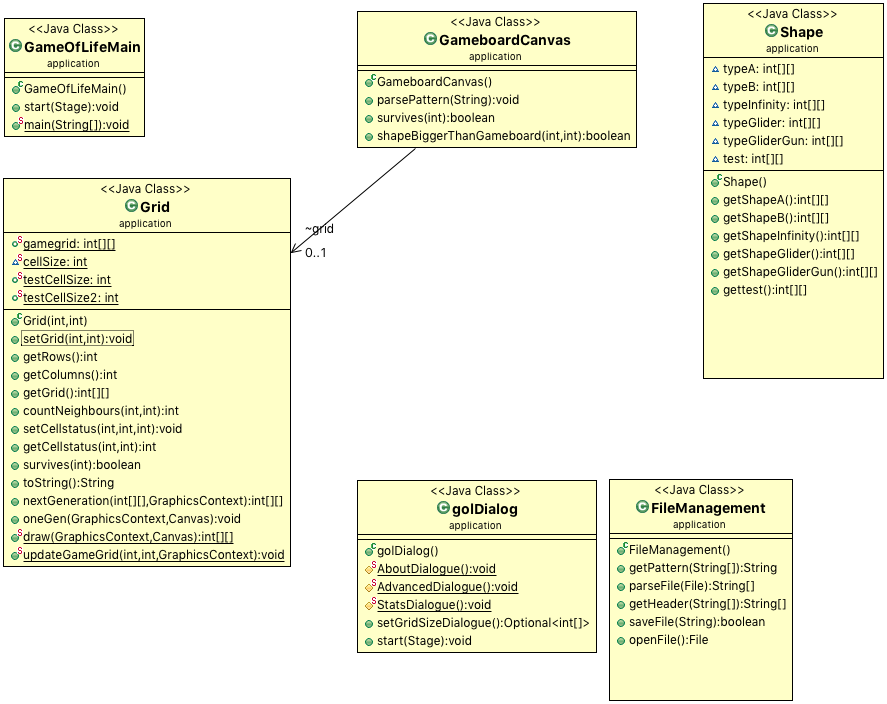
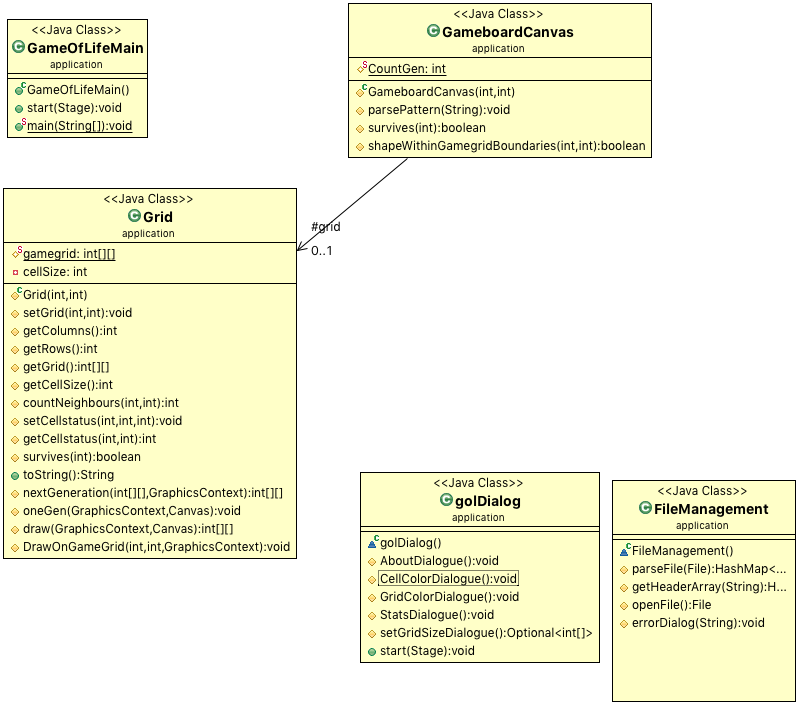
Refactor: countgen moved to Grid, created getters/ setters, updated statsdialog

diff --git a/src/application/golDialog.java b/src/application/golDialog.java
@@ -71,19 +71,19 @@ class golDialog extends Application	{
 		 * 
 		 * @author Lars 
 		 */
-		protected void StatsDialogue()	{
+		protected void StatsDialogue(Grid grid)	{
 			Alert stats = new Alert(AlertType.INFORMATION);
 			stats.setTitle("Stats");
 			stats.setHeaderText(null);
 			stats.initStyle(StageStyle.UNDECORATED);
 			
 //			If the game hasen't started yet the stats dialog will add a sentence in the dialog
-			if(GameController.CountGen == 0){
-				stats.setContentText("Current gridsize is: "+ Grid.gamegrid.length + " x " + Grid.gamegrid[0].length + "\n" + 
+			if(grid.getCountgen() == 0){
+				stats.setContentText("Current gridsize is: "+ grid.getColumns() + " x " + grid.getRows() + "\n" + 
 			"The game hasn't started yet!" + "\n" + "The game will start with " + (Math.round(GameController.getTimeline().getRate()*100.00) / 100.00) + " Generations/Sec");
 			}	else	{
-				stats.setContentText("Current gridsize is: "+ Grid.gamegrid.length + " x " + Grid.gamegrid[0].length + "\n" + 
-						"Number of generations played: " + GameController.CountGen + "\n" + "Speed: " + (Math.round(GameController.getTimeline().getRate()*100.00) / 100.00) + " Generations/Sec");
+				stats.setContentText("Current gridsize is: "+ grid.getColumns() + " x " + grid.getRows() + "\n" + 
+						"Number of generations played: " + grid.getCountgen() + "\n" + "Speed: " + (Math.round(GameController.getTimeline().getRate()*100.00) / 100.00) + " Generations/Sec");
 			};
 			  
 			ButtonType buttonTypeCancel = new ButtonType("Cool!", ButtonData.CANCEL_CLOSE);

diff --git a/src/application/GameController.java b/src/application/GameController.java
@@ -39,7 +39,7 @@ import javafx.beans.value.ObservableValue;
 
 	private static Timeline timeline = new Timeline();
 	
-	protected static int CountGen;
+	
 	
 	@FXML
 	private Canvas Gameboard;
@@ -116,7 +116,7 @@ import javafx.beans.value.ObservableValue;
 		getTimeline().stop();
 		btn_PlayStop.setText("Play");
 		// Shows the Stats Dialogue
-		dialog.StatsDialogue();
+		dialog.StatsDialogue(gameboardcanvas.grid);
 	}
 
 	/**
@@ -231,7 +231,6 @@ import javafx.beans.value.ObservableValue;
     @FXML
     private void btn_Next(ActionEvent event){
     	gameboardcanvas.grid.oneGen(gc, Gameboard);
-    	CountGen++;
     }
        
     /**
@@ -293,7 +292,6 @@ import javafx.beans.value.ObservableValue;
 		setTimeline(new Timeline(new KeyFrame
 				(Duration.seconds(1), Kv -> {
 					gameboardcanvas.grid.oneGen(gc, Gameboard);
-					CountGen++;
 					})));
 		// Sets the the timeline is going to go infinite times until stopped
     	getTimeline().setCycleCount(Animation.INDEFINITE);

diff --git a/src/application/GameboardCanvas.java b/src/application/GameboardCanvas.java
@@ -15,6 +15,7 @@ class GameboardCanvas {
 //	Grid object, holding the grid array
 	protected Grid grid;
 	
+
 	
 	//Constructor, a new gameboard canvas with default gridsize.
 	protected GameboardCanvas(int columns, int rows){
